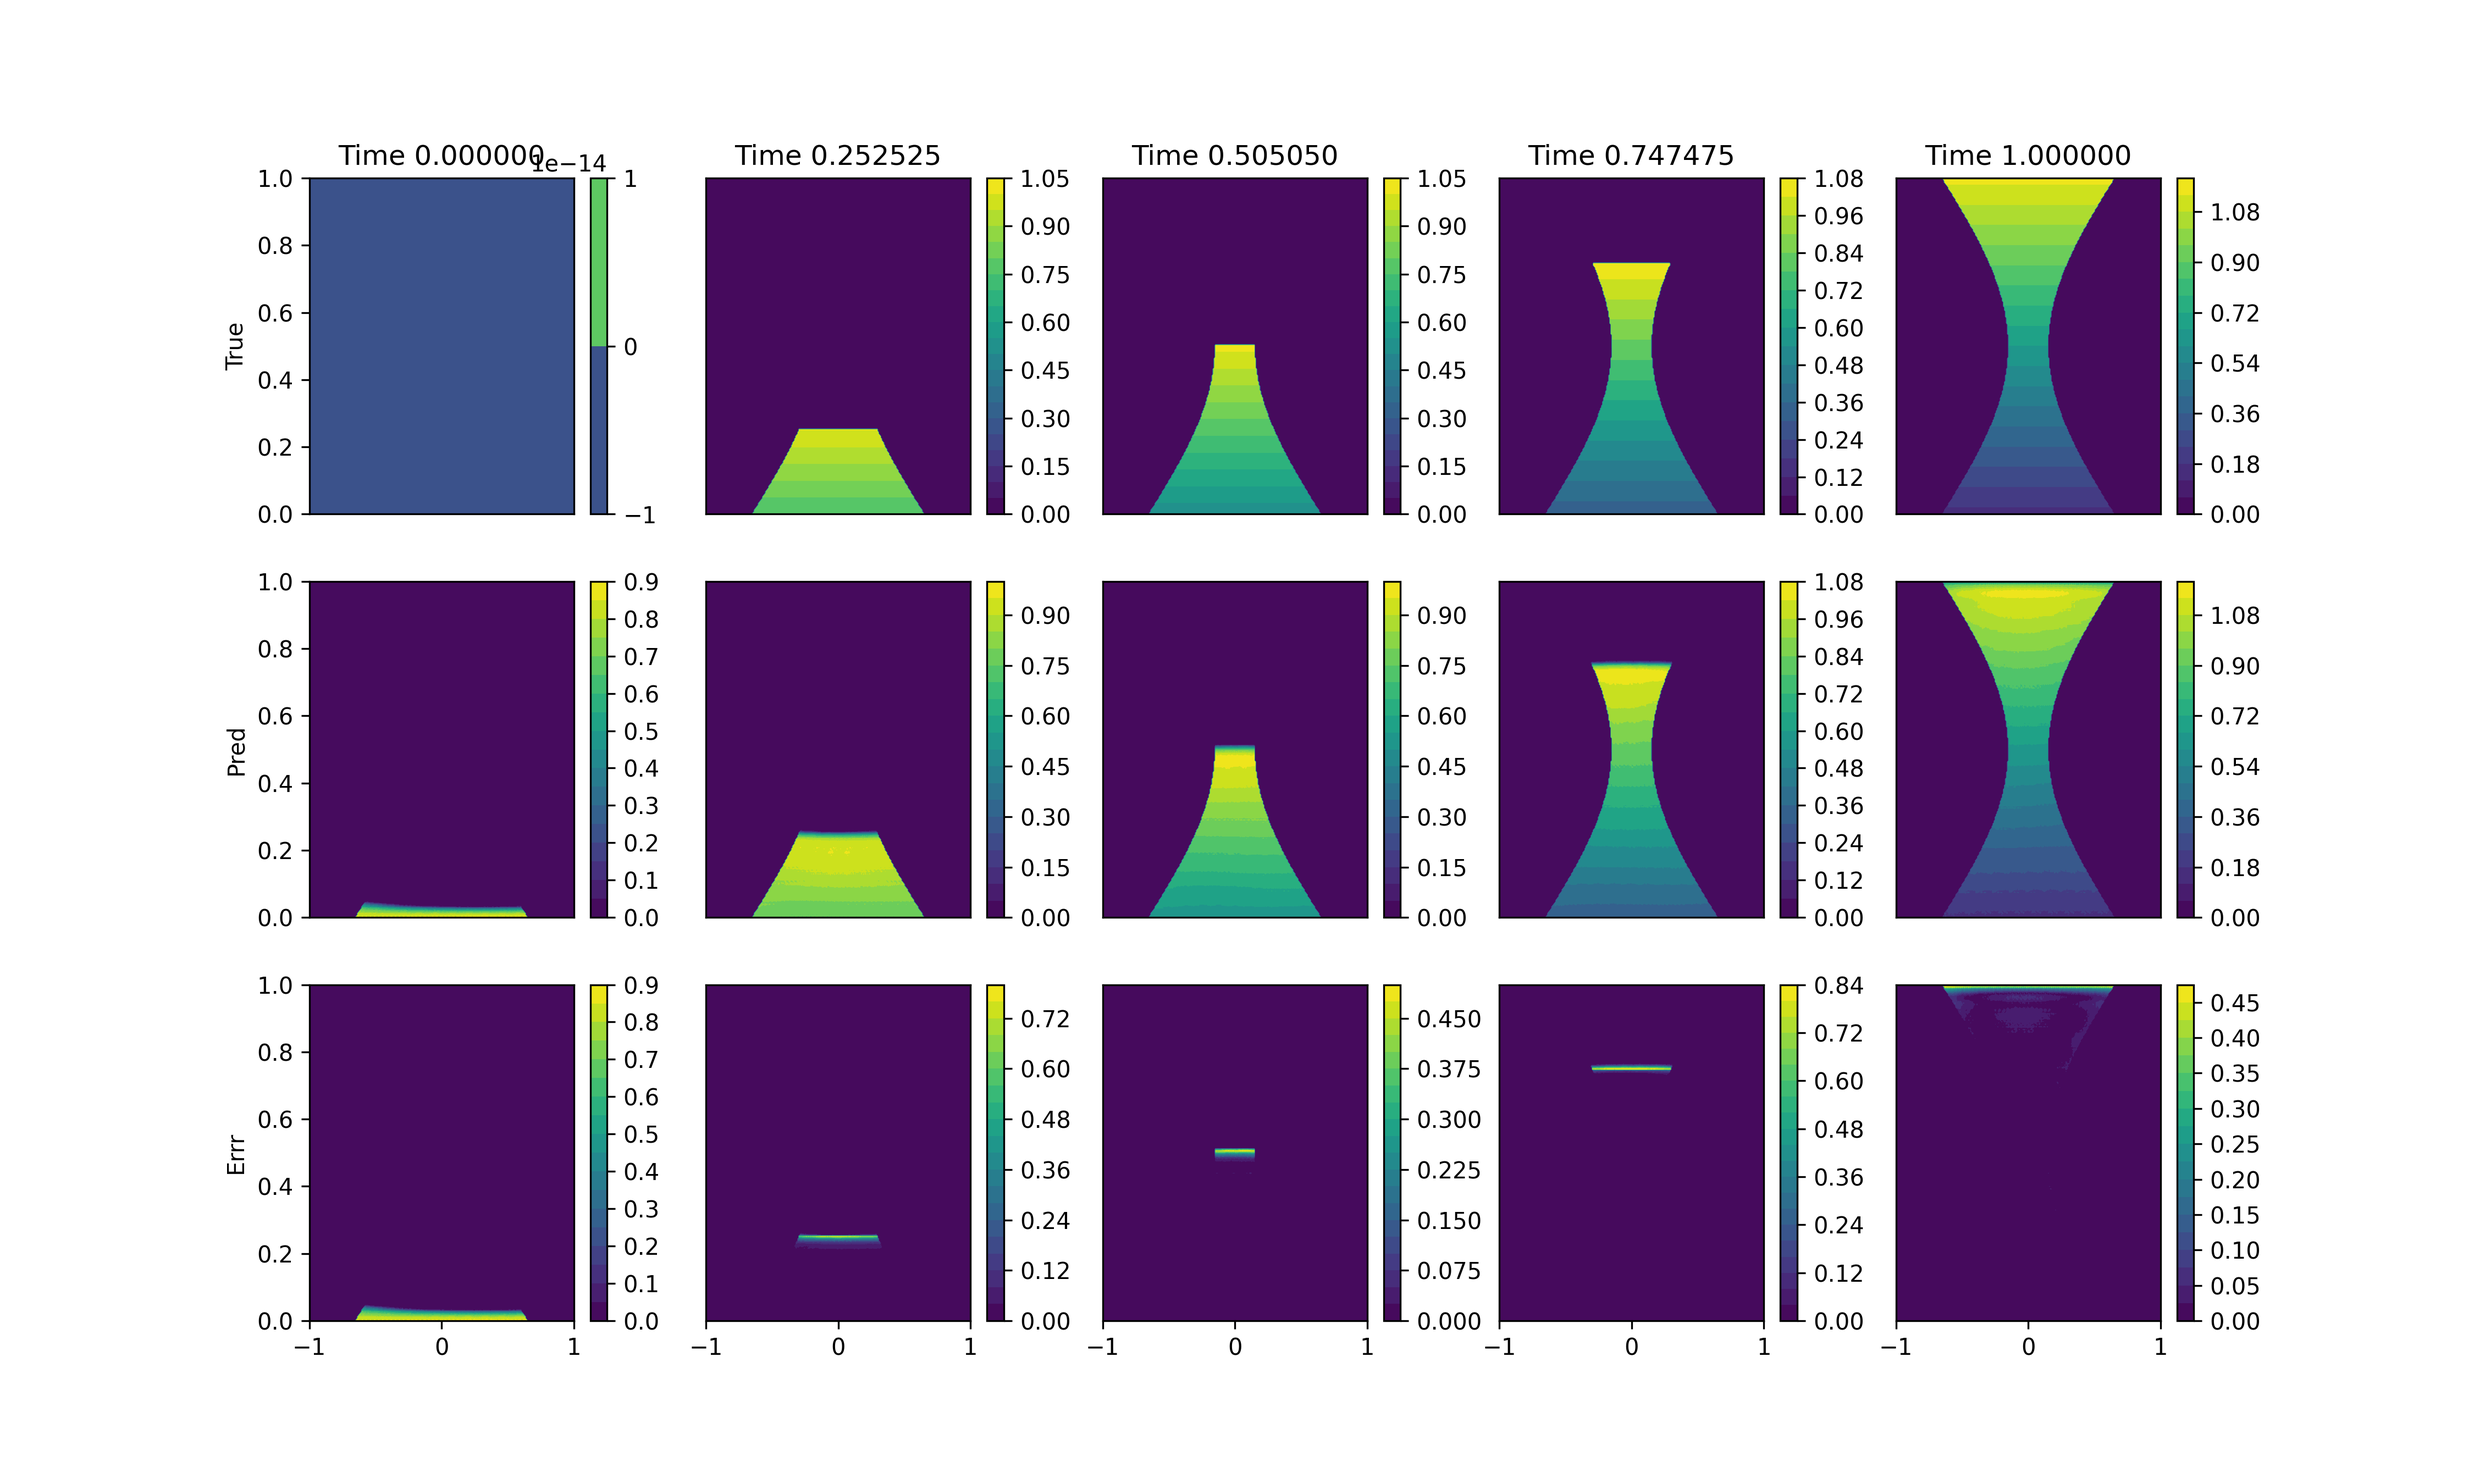
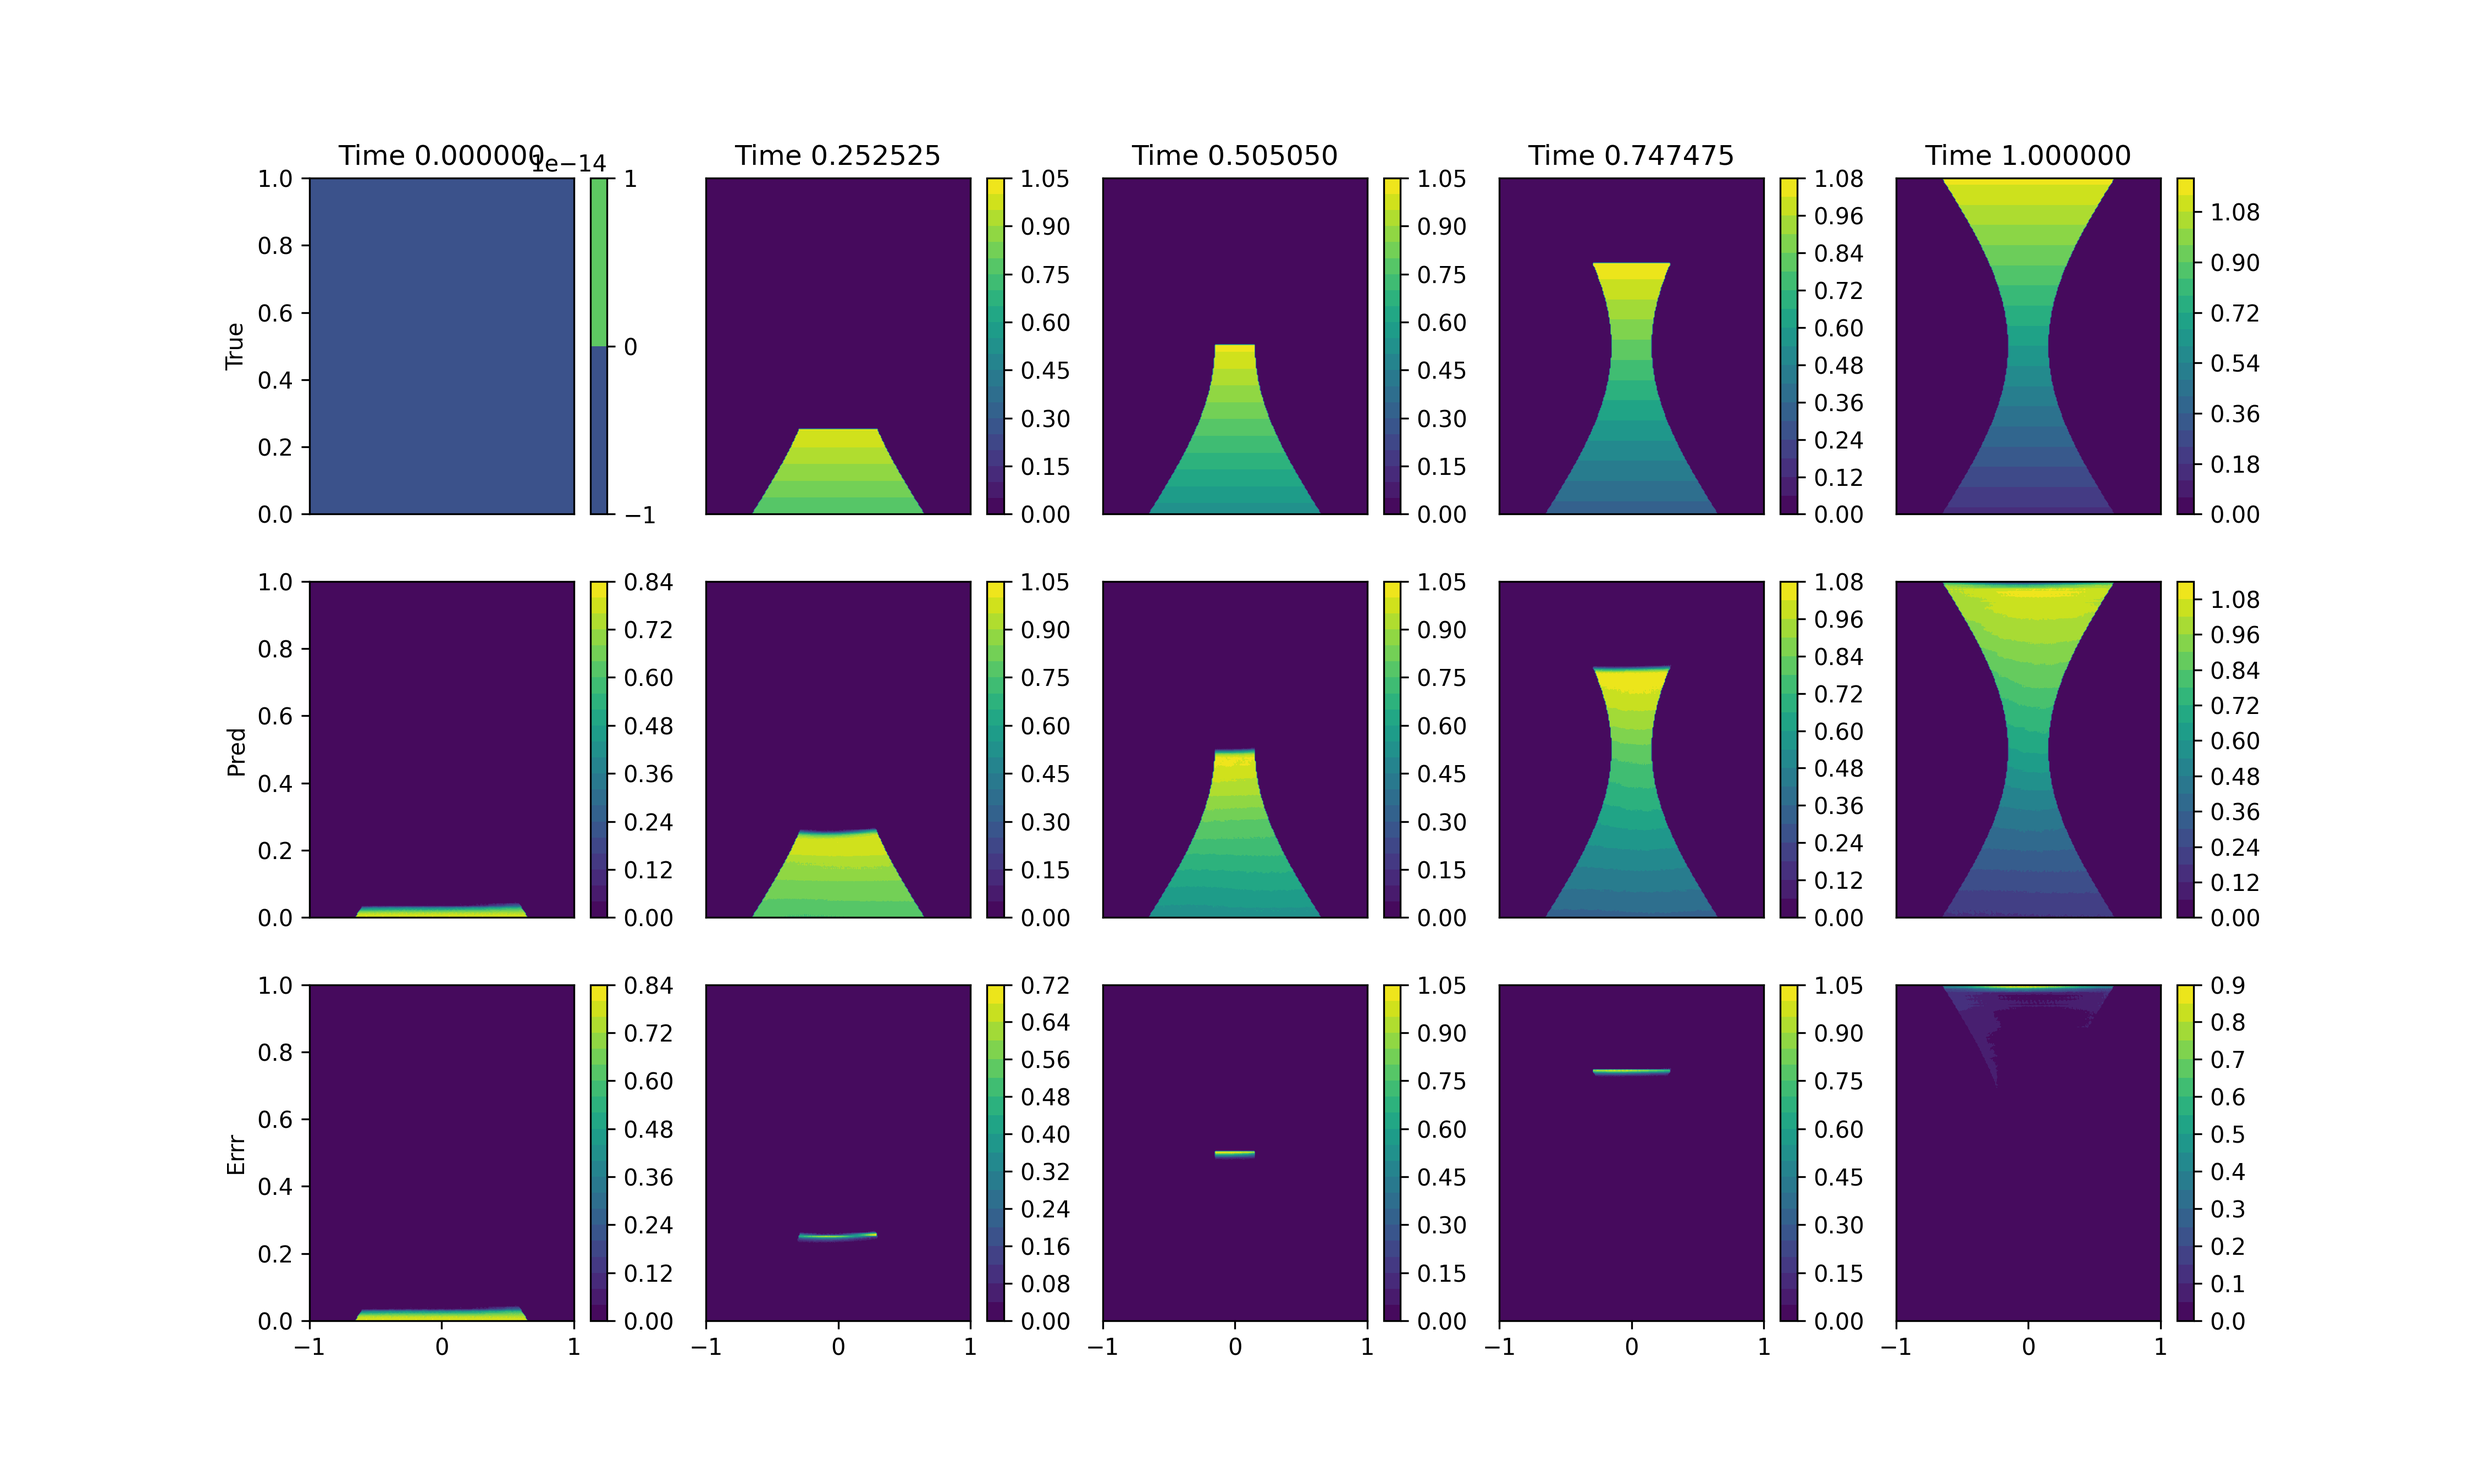
next step prediction looking good

diff --git a/sandbox/__main__.py b/sandbox/__main__.py
@@ -15,6 +15,69 @@ import argparse
 import sandbox
 import mlutils
 
+class UNetNextstep(nn.Module):
+    def __init__(self, shape, ci, co):
+        super().__init__()
+
+        M = shape.final_mask().unsqueeze(0).unsqueeze(0)
+        self.register_buffer('M', M)
+        self.unet = mlutils.UNet(ci, co)
+        return
+
+    def forward(self, x):
+        x = self.unet(x)
+        return x * self.M
+#
+def train_cnn_nextstep(device, outdir, resdir, name):
+
+    modelfile = outdir + "cnn_nextstep_" + name + ".pth"
+    imagefile = resdir + "cnn_nextstep_" + name + ".png"
+
+    # DATA
+    if name == "hourglass":
+        nw1 = None
+        nw2 = None
+    elif name == "alldomain":
+        nw1 = torch.inf
+        nw2 = torch.inf
+
+    nx, nz, nt = 256, 256, 100
+    shape = sandbox.Shape(nx, nz, nt, nw1, nw2)
+    data = sandbox.makedata(
+        shape, inputs="T", outputs="T", datatype="image-nextstep",
+        mask="finaltime",
+    )
+
+    # MODEL
+    model = UNetNextstep(shape, 1, 1)
+
+    # TRAIN
+    lrs = [1e-3, 5e-4, 1e-4, 5e-5, 1e-5]
+    nes = [   2,    5,   10,   10,   10]
+    for i in range(len(lrs)):
+        kw = {
+            "device" : device,
+            "lr" : lrs[i],
+            "_batch_size" : 1,
+            "nepochs" : nes[i],
+        }
+        trainer = mlutils.Trainer(model, data, **kw)
+        trainer.train()
+
+    torch.save(model.to("cpu").state_dict(), modelfile)
+
+    # VISUALIZE
+    model.load_state_dict(torch.load(modelfile, weights_only=True))
+
+    model.eval()
+    xztT, _ = data[:]
+    pred = model(xztT) + xztT
+
+    fig = shape.comparison_plot(pred, nextstep=True)
+    fig.savefig(imagefile, dpi=300)
+
+    return
+
 class UNetCNN(nn.Module):
     def __init__(self, shape, w=128, act=nn.ReLU()):
         super().__init__()
@@ -22,20 +85,18 @@ class UNetCNN(nn.Module):
         M = shape.final_mask().unsqueeze(0).unsqueeze(0)
         self.register_buffer('M', M)
 
-        self.unet = mlutils.UNet(3, 1)
-
         self.encoder = nn.Sequential(                 # [N, 3, 256, 256]
             mlutils.C2d_block(3, w, None, "2x", act), # [128]
             mlutils.C2d_block(w, w, None, "2x", act), # [64]
             mlutils.C2d_block(w, w, None, "2x", act), # [32]
             mlutils.C2d_block(w, w, None, "2x", act), # [16]
         )
-
+        
         self.bottleneck = nn.Sequential( # [N, w, 16, 16]
             nn.Conv2d(w, w, kernel_size=3, padding=1), act, # [16]
             nn.Conv2d(w, w, kernel_size=3, padding=1), act, # [16]
         )
-
+        
         self.decoder = nn.Sequential( # [N, w, 16, 16]
             mlutils.CT2d_block(w, w, None, "2x", act), # 32
             mlutils.CT2d_block(w, w, None, "2x", act), # 64
@@ -49,8 +110,6 @@ class UNetCNN(nn.Module):
         x = self.encoder(x)
         x = self.bottleneck(x)
         x = self.decoder(x)
-
-        # x = self.unet(x)
         return x * self.M
 #
 
@@ -76,30 +135,30 @@ def train_cnn(device, outdir, resdir, name):
     # MODEL
     model = UNetCNN(shape)
     
-    # TRAIN
-    lrs = [1e-3, 5e-4, 1e-4, 5e-5, 1e-5]
-    nes = [   2,    5,   10,   10,   10]
-    for i in range(len(lrs)):
-        kw = {
-            "device" : device,
-            "lr" : lrs[i],
-            "_batch_size" : 1,
-            "nepochs" : nes[i],
-        }
-        trainer = mlutils.Trainer(model, data, **kw)
-        trainer.train()
-
-    torch.save(model.to("cpu").state_dict(), modelfile)
+    # # TRAIN
+    # lrs = [1e-3, 5e-4, 1e-4, 5e-5, 1e-5]
+    # nes = [   2,    5,   10,   10,   10]
+    # for i in range(len(lrs)):
+    #     kw = {
+    #         "device" : device,
+    #         "lr" : lrs[i],
+    #         "_batch_size" : 1,
+    #         "nepochs" : nes[i],
+    #     }
+    #     trainer = mlutils.Trainer(model, data, **kw)
+    #     trainer.train()
+    #
+    # torch.save(model.to("cpu").state_dict(), modelfile)
 
     # VISUALIZE
     model = UNetCNN(shape)
     model.load_state_dict(torch.load(modelfile, weights_only=True))
 
     model.eval()
-    t, true = data[:]
-    pred = model(t)
+    xzt, _ = data[:]
+    pred = model(xzt)
 
-    fig = shape.comparison_plot(pred, true)
+    fig = shape.comparison_plot(pred)
     fig.savefig(imagefile, dpi=300)
 
     return
@@ -166,10 +225,10 @@ def train_scalar_cnn(device, outdir, resdir, name):
     model.load_state_dict(torch.load(modelfile, weights_only=True))
 
     model.eval()
-    t, true = data[:]
+    t, _ = data[:]
     pred = model(t)
     
-    fig = shape.comparison_plot(pred, true)
+    fig = shape.comparison_plot(pred)
     fig.savefig(imagefile, dpi=300)
 
     return
@@ -310,12 +369,15 @@ if __name__ == "__main__":
     # view_shape(resdir, "hourglass")
 
     # train_mlp_sdf(device, outdir, residr, "hourglass")
-    #
+
     # train_mlp(device, outdir, resdir, "alldomain")
     # train_mlp(device, outdir, resdir, "hourglass")
 
-    train_cnn(device, outdir, resdir, "alldomain")
+    # train_cnn(device, outdir, resdir, "alldomain")
     # train_cnn(device, outdir, resdir, "hourglass")
+
+    # train_cnn_nextstep(device, outdir, resdir, "alldomain")
+    train_cnn_nextstep(device, outdir, resdir, "hourglass")
 
     # train_scalar_cnn(device, outdir, resdir, "alldomain")
     # train_scalar_cnn(device, outdir, resdir, "hourglass")

diff --git a/sandbox/shape.py b/sandbox/shape.py
@@ -128,7 +128,17 @@ class Shape:
 
         return fig
 
-    def comparison_plot(self, pred, true, nt_plt=5):
+    def comparison_plot(self, pred, nt_plt=5, nextstep=False):
+
+        _, (_, temp, _, _) = self.fields_dense()
+
+        if pred.ndim == 4:
+            pred = pred.squeeze(1) # remove channel dim
+
+        if nextstep: # contains [1:nt-1] so we cat [0]
+            pred = torch.cat([temp[0].unsqueeze(0), pred], dim=0)
+
+        assert pred.shape == temp.shape
 
         fig, axs = plt.subplots(ncols=5, nrows=3, figsize = (15, 9))
         axs[0, 0].set_ylabel(f"True")
@@ -139,7 +149,7 @@ class Shape:
         z = self.z.numpy(force=True)
         t = self.t.numpy(force=True)
 
-        errr = torch.abs(pred - true)
+        errr = torch.abs(pred - temp)
         pred = pred.numpy(force=True)
         errr = errr.numpy(force=True)
 
@@ -147,11 +157,12 @@ class Shape:
         it_plt = torch.round(it_plt).to(torch.int).numpy(force=True)
 
         for (i, it) in enumerate(it_plt):
-            axs[0, i].set_title(f"Time {t[it].item():>2f}")
+            it = it
+            axs[0, i].set_title(f"Time {t[it].item():2f}")
 
-            p0 = axs[0, i].contourf(x, z, true[it, 0, :, :], levels=20, cmap='viridis')
-            p1 = axs[1, i].contourf(x, z, pred[it, 0, :, :], levels=20, cmap='viridis')
-            p2 = axs[2, i].contourf(x, z, errr[it, 0, :, :], levels=20, cmap='viridis')
+            p0 = axs[0, i].contourf(x, z, temp[it, :, :], levels=20, cmap='viridis')
+            p1 = axs[1, i].contourf(x, z, pred[it, :, :], levels=20, cmap='viridis')
+            p2 = axs[2, i].contourf(x, z, errr[it, :, :], levels=20, cmap='viridis')
 
             for j in range(2):
                 axs[j, i].set_xlabel('')

diff --git a/mlutils/models.py b/mlutils/models.py
@@ -7,9 +7,7 @@ import math
 __all__ = [
     "MLP",
     "Sine",
-    #
     "SDFClamp",
-    #
     "C2d_block",
     "CT2d_block",
     "double_conv",
